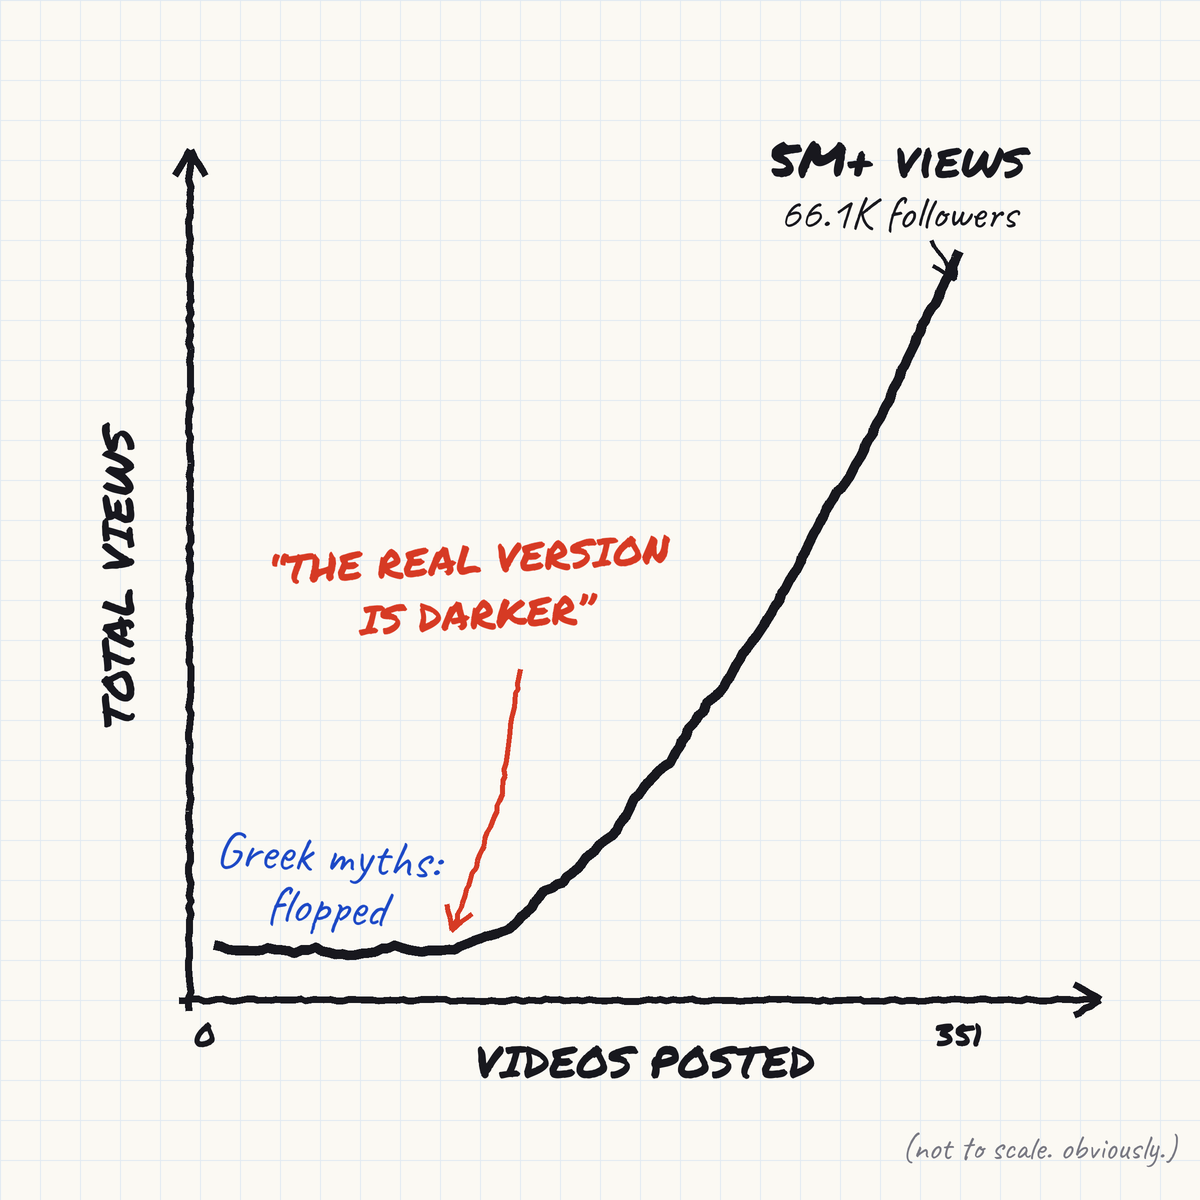
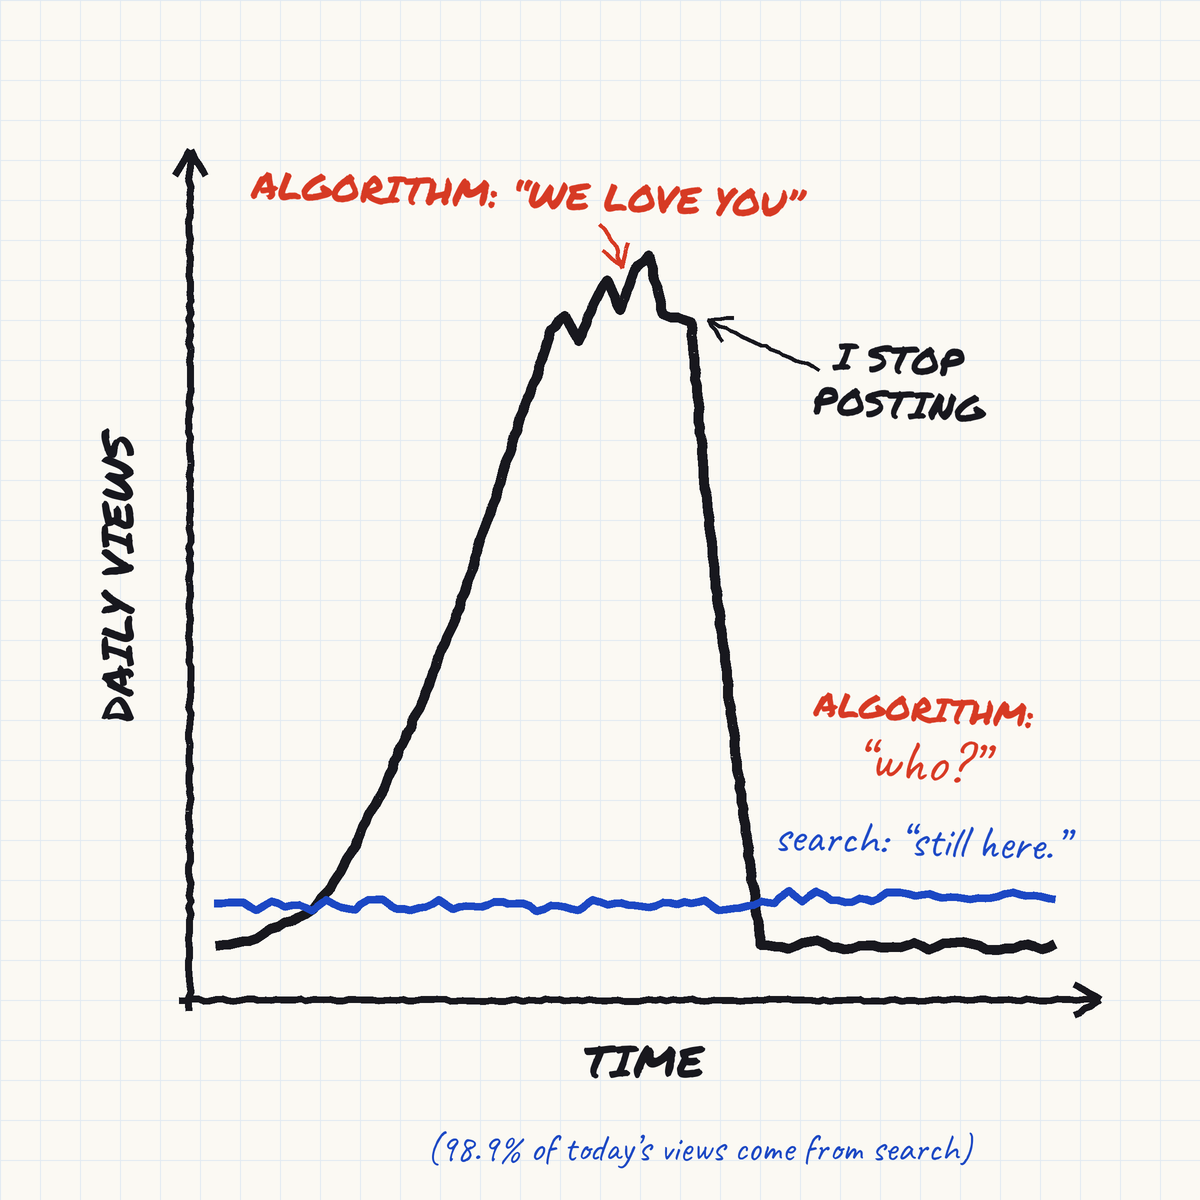
TikTok chart: algorithm vs search
Claude-Session: https://claude.ai/code/session_015eiBRGpC2hMXjiGLbSaNCy

diff --git a/tools/joke_charts.py b/tools/joke_charts.py
@@ -121,26 +121,29 @@ def copilot():
 
 def tiktok():
     s = Sketch(seed=8)
-    s.axes("TOTAL VIEWS", "VIDEOS POSTED", ysize=44)
-    s.text((205, 1035), "0", "mark", 32); s.text((960, 1035), "351", "mark", 32)
-    pts, x = [], 215
-    while x < 440:
-        pts.append((x, 950 + random.uniform(-5, 5))); x += 20
-    while x <= 960:
-        t = (x - 440) / 520
-        pts.append((x, 950 - 700 * (t ** 1.6) + random.uniform(-6, 6))); x += 18
-    s.line(pts, w=10, amp=1.0)
-    s.text((330, 860), "Greek myths:", size=52, fill=BLUE, angle=-3)
-    s.text((330, 912), "flopped", size=52, fill=BLUE, angle=-3)
-    s.text((470, 560), "\u201cTHE REAL VERSION", "mark", 40, RED, 3)
-    s.text((480, 615), "IS DARKER\u201d", "mark", 40, RED, 3)
-    s.arrow([(520, 670), (500, 800), (452, 930)], RED)
-    s.text((900, 160), "5M+ views", "mark", 50)
-    s.text((900, 215), "66.1K followers", size=46)
-    s.arrow([(930, 240), (945, 260), (955, 280)], INK, 4)
-    s.text((1040, 1150), "(not to scale. obviously.)", size=34, fill=(120, 120, 130))
+    s.axes("DAILY VIEWS", "TIME", ysize=44)
+    fyp, srch, x = [], [], 215
+    while x <= 1060:
+        if x < 300:   y = 950 - (x - 215) * 0.4
+        elif x < 560: y = 916 - 620 * ((x - 300) / 260) ** 1.4
+        elif x < 690: y = 296 + random.uniform(-45, 45)
+        elif x < 760: y = 296 + 640 * ((x - 690) / 70) ** 0.8
+        else:         y = 945
+        fyp.append((x, min(950, y + random.uniform(-6, 6))))
+        srch.append((x, 905 + random.uniform(-6, 6) - (8 if x > 760 else 0)))
+        x += 14
+    s.line(fyp, w=10, amp=1.0)
+    s.line(srch, fill=BLUE, w=8, amp=1.0)
+    s.text((530, 195), "ALGORITHM: \u201cWE LOVE YOU\u201d", "mark", 38, RED, -2)
+    s.arrow([(600, 225), (615, 245), (622, 268)], RED, 4)
+    s.text((900, 360), "I STOP", "mark", 38, INK, -3)
+    s.text((900, 405), "POSTING", "mark", 38, INK, -3)
+    s.arrow([(820, 370), (760, 345), (708, 320)], INK, 4)
+    s.text((925, 710), "ALGORITHM:", "mark", 34, RED, -3)
+    s.text((925, 760), "\u201cwho?\u201d", size=58, fill=RED, angle=-3)
+    s.text((925, 840), "search: \u201cstill here.\u201d", size=46, fill=BLUE, angle=-2)
+    s.text((700, 1150), "(98.9% of today\u2019s views come from search)", size=38, fill=BLUE)
     s.save(out("tiktok", "tiktok-joke-chart.png"))
-
 
 ALL = {"listicles": listicles, "coin_flip": coin_flip, "impressions": impressions,
        "detector": detector, "copilot": copilot, "tiktok": tiktok}
